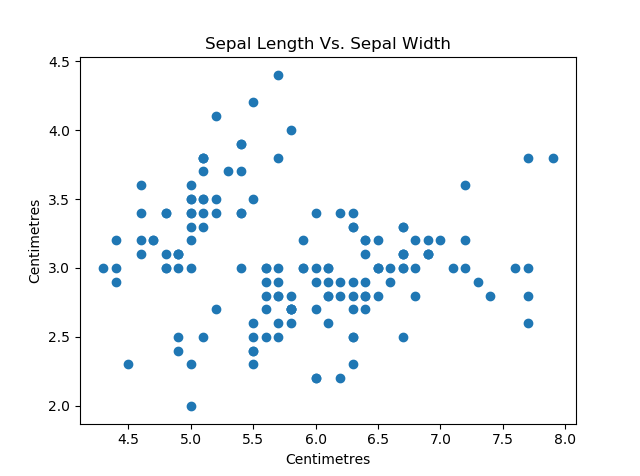
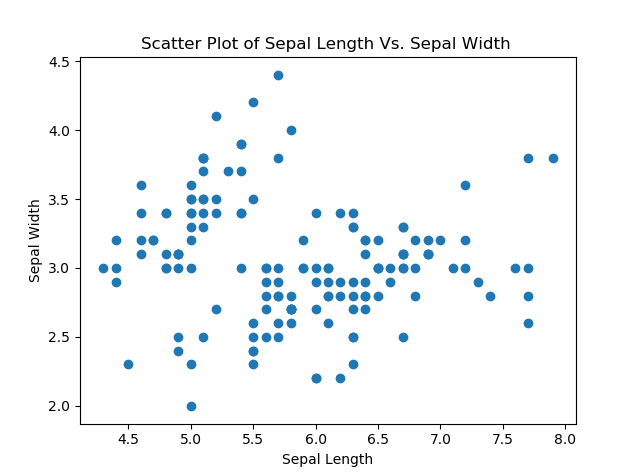
Added scatter plot of p.length v p.width with and added image files

Changed region(s): [[0.2188, 0.0588, 0.8125, 0.1176], [0.4375, 0.9412, 0.5938, 1.0], [0.0312, 0.4118, 0.0625, 0.5882]]

diff --git a/scatterplot.py b/scatterplot.py
@@ -55,5 +55,10 @@ pl.scatter(sepallength, sepalwidth, color=[ color[i] for i in species ] )    # F
 pl.title('Scatter Plot of Sepal Length Vs. Sepal Width ')      # Went to the following link to find the '.title' parameter to create a title for the scatter plot dhttps://matplotlib.org/api/pyplot_api.html
 pl.xlabel('Sepal Length') # Went to the following link to find the '.xlabel' parameter to create a title for the scatter plot dhttps://matplotlib.org/api/pyplot_api.html
 pl.ylabel('Sepal Width')  # Went to the following link to find the '.ylabel' parameter to create a title for the scatter plot dhttps://matplotlib.org/api/pyplot_api.html
-pl.figlegend(('Iris-setosa':'red', 'Iris-versicolor':'blue', 'Iris-virginica':'green'),scatterpoints=1,loc='lower left',ncol=3,fontsize=8)
+pl.show()   # This shows the scatter last plot created
+
+pl.scatter(petallength, petalwidth, color=[ color[i] for i in species ] )    # Found code at this link that helped created colour the data points per species: https://stackoverflow.com/questions/27318906/python-scatter-plot-with-colors-corresponding-to-strings
+pl.title('Scatter Plot of Petal Length Vs. Petal Width ')      # Went to the following link to find the '.title' parameter to create a title for the scatter plot dhttps://matplotlib.org/api/pyplot_api.html
+pl.xlabel('Petal Length') # Went to the following link to find the '.xlabel' parameter to create a title for the scatter plot dhttps://matplotlib.org/api/pyplot_api.html
+pl.ylabel('Petal Width')  # Went to the following link to find the '.ylabel' parameter to create a title for the scatter plot dhttps://matplotlib.org/api/pyplot_api.html
 pl.show()   # This shows the scatter last plot created
